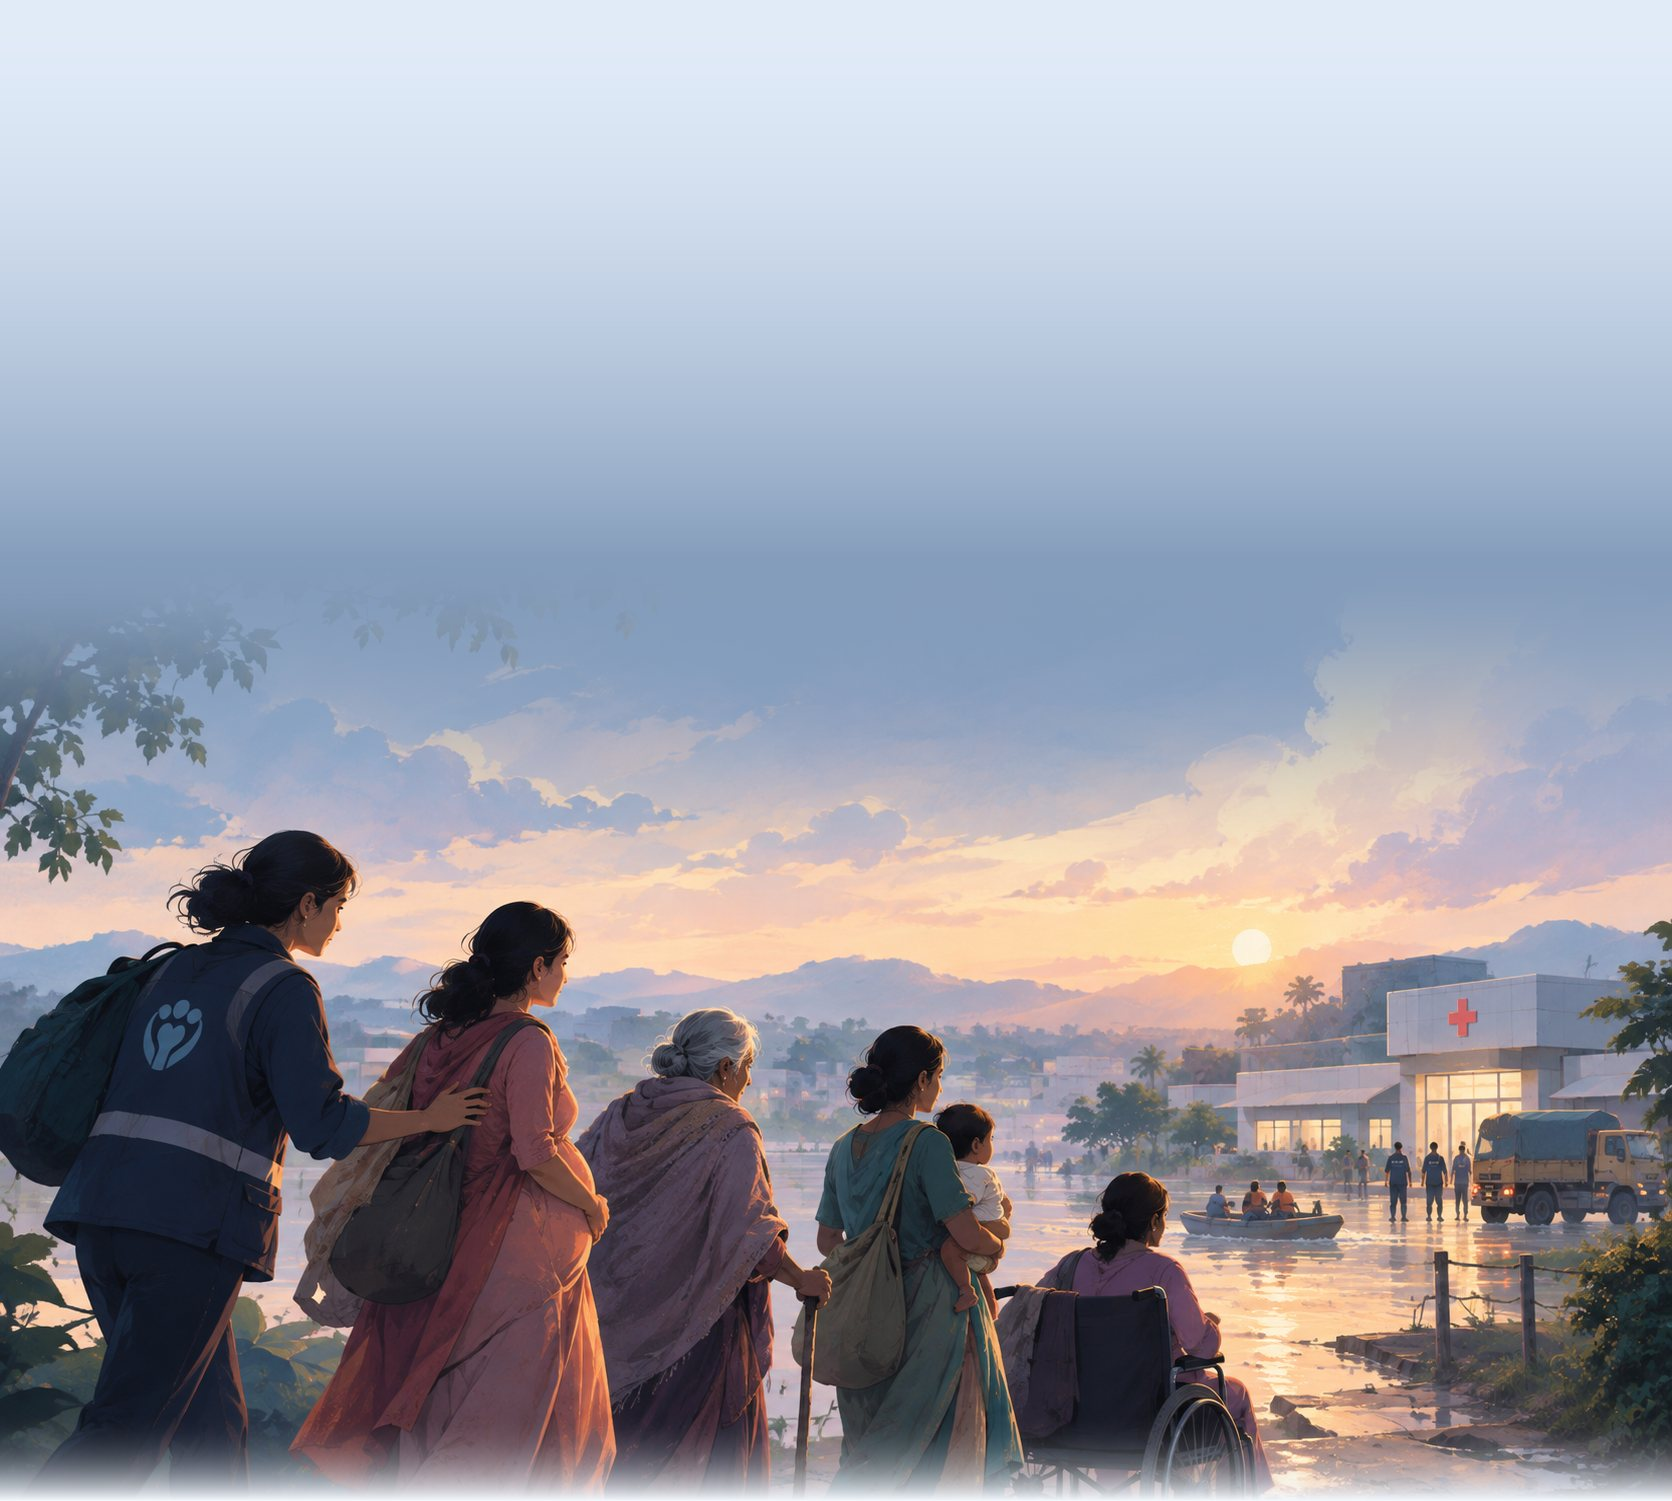
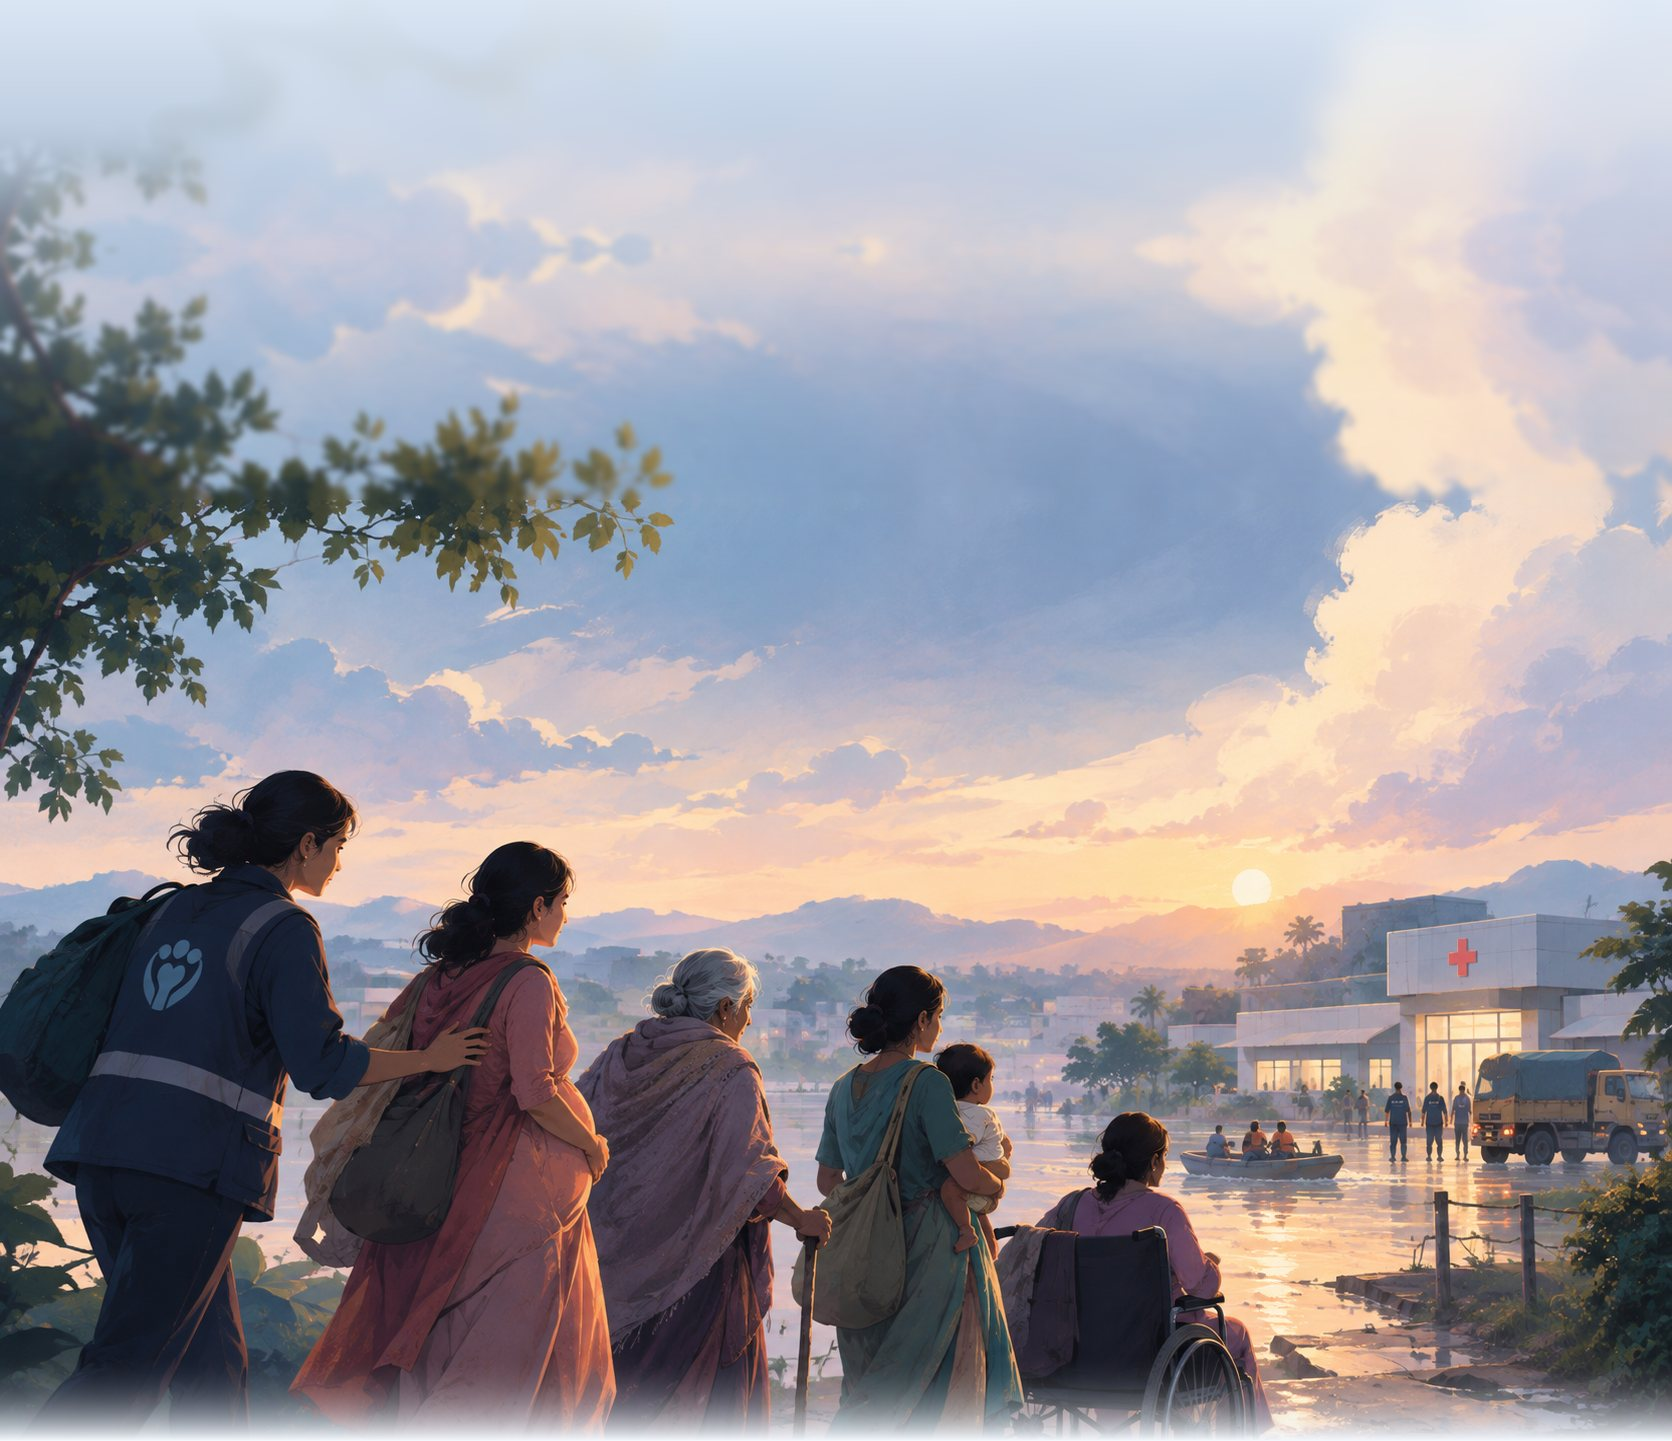
Add files via upload

diff --git a/style.css b/style.css
@@ -225,12 +225,12 @@ details > summary { cursor: pointer; font-weight: 600; }
 /* front page */
 body:not(.on-landing) #landing { display: none; }
 body.on-landing .top, body.on-landing #alertbar, body.on-landing .tabs, body.on-landing main, body.on-landing #toast { display: none !important; }
-.l-hero { position: relative; overflow: hidden; background: #e2ecf9 url(hero.jpg) center bottom / min(100%, 1672px) auto no-repeat; padding-bottom: calc(min(100vw, 1672px) * .50); }
+.l-hero { position: relative; overflow: hidden; background: #e2ecf9 url(hero.jpg) center bottom / 100% auto no-repeat; min-height: calc(100vw * .862); padding-bottom: calc(100vw * .40); }
 .scene { position: absolute; left: 0; bottom: 0; width: 100%; height: auto; image-rendering: pixelated; pointer-events: none; }
 .l-nav { position: relative; z-index: 2; display: flex; justify-content: space-between; align-items: center; gap: 16px; max-width: 760px; margin: 22px auto 0; padding: 8px 10px 8px 16px; border-radius: 999px; background: rgba(255,255,255,.72); border: 1px solid rgba(255,255,255,.9); backdrop-filter: blur(8px); }
-.l-copy { position: relative; z-index: 2; max-width: 860px; margin: clamp(48px, 9vh, 96px) auto 0; padding: 0 24px; text-align: center; }
-.l-copy h1 { font-size: clamp(2.1rem, 5vw, 3.7rem); font-weight: 600; line-height: 1.1; letter-spacing: -.02em; max-width: 18ch; margin: 0 auto; }
-.l-copy p { max-width: 58ch; margin: 22px auto 28px; font-size: 1.1rem; color: #1b2b3b; }
+.l-copy { position: relative; z-index: 2; max-width: 860px; margin: clamp(24px, 4.5vh, 52px) auto 0; padding: 0 24px; text-align: center; }
+.l-copy h1 { font-size: clamp(2.1rem, 4.4vw, 3.3rem); font-weight: 600; line-height: 1.1; letter-spacing: -.02em; max-width: 18ch; margin: 0 auto; }
+.l-copy p { max-width: 56ch; margin: 16px auto 22px; font-size: 1.05rem; color: #1b2b3b; }
 .l-actions { display: flex; flex-wrap: wrap; gap: 12px; justify-content: center; }
 .l-lower { max-width: 1040px; margin: 0 auto; padding: 24px 24px 64px; }
 .l-lower h2 { font-size: clamp(1.6rem, 3.2vw, 2.3rem); font-weight: 600; letter-spacing: -.015em; line-height: 1.15; max-width: 22ch; }

diff --git a/sw.js b/sw.js
@@ -1,5 +1,5 @@
 // cache first, so the app opens offline
-const CACHE = 'aashray-v6';
+const CACHE = 'aashray-v8';
 const FILES = ['./', './index.html', './style.css', './triage.js', './data.js', './app.js', './landing.js', './manifest.webmanifest', './icon.svg', './hero.jpg', './scene.png', './shot-carelist.png', './shot-queue.png', './shot-phone.png'];
 
 self.addEventListener('install', (e) => {
